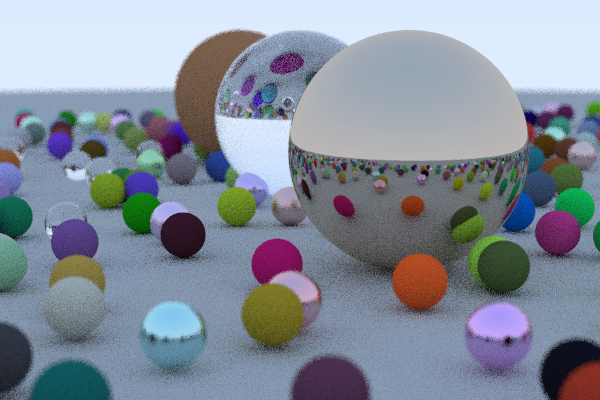
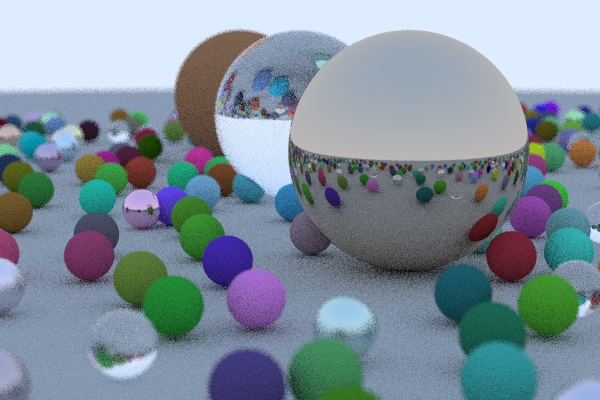
working SIMD implementation

diff --git a/src/main.rs b/src/main.rs
@@ -17,10 +17,6 @@ impl Ray {
         Ray { origin, direction }
     }
 
-    fn zero() -> Ray {
-        Ray { origin: Vec3::zero(), direction: Vec3::zero() }
-    }
-
     fn at(&self, t: f32) -> Vec3 {
         self.origin + self.direction * t
     }
@@ -48,174 +44,132 @@ trait Hitable {
     fn hit(&self, ray: Ray, t_min: f32, t_max: f32, out_hit: &mut HitRecord) -> bool;
 }
 
-struct Sphere {
-    center: Vec3,
-    radius: f32
-}
-
-impl Sphere {
-    fn new(center: Vec3, radius: f32) -> Sphere {
-        Sphere { center, radius }
-    }
-}
-
 use std::arch::x86_64::*;
 
-// fn set_ps(v: &Vec3) -> __m128 {
-//     _mm_set_ps(v.x, v.y, v.z, 0.0)
-// }
-
-// fn dot_simd(a: __m128, b: __m128) -> __m128 {
-//     let dot = _mm_mul_ps(a, b);
-//     dot = _mm_hadd_ps(dot, dot);
-//     _mm_hadd_ps(dot, dot)
-// }
-
-// Calculates the three dimensional dot product
-// for the for vectors stored in each channel.
-fn dot_4(
-	x_1: __m128, y_1: __m128, z_1: __m128,
-    x_2: __m128, y_2: __m128, z_2: __m128)
-    -> __m128
-{
-	unsafe {
-        let dot_x_2 = _mm_mul_ps(x_1, x_2);
-        let dot_y_2 = _mm_mul_ps(y_1, y_2);
-        let dot_z_2 = _mm_mul_ps(z_1, z_2);
-        let dot_sum = _mm_add_ps(dot_x_2, dot_y_2);
-        _mm_add_ps(dot_sum, dot_z_2)
-    }
+macro_rules! MY_MM_SHUFFLE {
+    ($fp3: expr, $fp2: expr, $fp1: expr, $fp0: expr) => {
+        (($fp3 << 6) | ($fp2 << 4) | ($fp1 << 2) | $fp0)
+    };
 }
 
-fn get_at_i(m: __m128, i: i32) -> f32
-{
+macro_rules! MY_SHUFFLE_4 {
+    ($v: expr, $x: expr, $y: expr, $z: expr, $w: expr) => {
+        _mm_shuffle_ps($v, $v, MY_MM_SHUFFLE!($w,$z,$y,$x))
+    };
+}
+
+fn select(a: __m128, b: __m128, cond: __m128) -> __m128 {
     unsafe {
-    	let shuff_mask = _mm_cvtsi32_si128(i);
-	    _mm_cvtss_f32(_mm_permutevar_ps(m, shuff_mask))
+        _mm_blendv_ps(a, b, cond)
     }
 }
 
-struct SimdRay {
-    origin_x : __m128,
-	origin_y : __m128,
-	origin_z : __m128,
-	direction_x : __m128,
-	direction_y : __m128,
-    direction_z : __m128,    
-}
-
-impl SimdRay {
-    fn new(ray: Ray) -> SimdRay {
-        unsafe {
-            SimdRay {
-                origin_x: _mm_set_ps1(ray.origin.x),
-                origin_y: _mm_set_ps1(ray.origin.y),
-                origin_z: _mm_set_ps1(ray.origin.z),
-                direction_x: _mm_set_ps1(ray.direction.x),
-                direction_y: _mm_set_ps1(ray.direction.y),
-                direction_z: _mm_set_ps1(ray.direction.z),        
-            }
-        }
-    }
-}
-
-fn hit_simd(world: &World, ray: Ray, t_min: f32, t_max: f32, out_hit: &mut HitRecord) -> (bool, usize) {
+fn selecti(a: __m128i, b: __m128i, cond: __m128) -> __m128i {
     unsafe {
-    let simd_ray = SimdRay::new(ray);
-    let zero = _mm_set_ps1(0.0); 
-	let a = _mm_set_ps1(dot(ray.direction, ray.direction));
+        _mm_blendv_epi8(a, b, _mm_castps_si128(cond))
+    }
+}
 
-    let mut found_hit = false;
-    let mut hit_sphere_idx = 0;
-    let mut t_closest = t_max;
+fn hmin(mut m: __m128) -> f32 {
+    unsafe {
+        m = _mm_min_ps(m, MY_SHUFFLE_4!(m, 2, 3, 0, 0));
+        m = _mm_min_ps(m, MY_SHUFFLE_4!(m, 1, 0, 0, 0));
+        _mm_cvtss_f32(m)
+    }
+}
 
-    let sphere_count = world.sphere_x.len() - (world.sphere_x.len() % 4) ;
+fn hit_simd(world: &World, r: Ray, t_min: f32, t_max: f32, out_hit: &mut HitRecord) -> (bool, usize) {
+unsafe {
+    let ro_x = _mm_set_ps1(r.origin.x);
+    let ro_y = _mm_set_ps1(r.origin.y);
+    let ro_z = _mm_set_ps1(r.origin.z);
+    let rd_x =  _mm_set_ps1(r.direction.x);
+    let rd_y =  _mm_set_ps1(r.direction.y);
+    let rd_z =  _mm_set_ps1(r.direction.z);
+
+    let t_min4 = _mm_set_ps1(t_min);
+    let zero_4 = _mm_set_ps1(0.0);
+
+    let mut id = _mm_set1_epi32(-1);
+    let mut closest_t = _mm_set_ps1(t_max);
+    let mut cur_id = _mm_set_epi32(3, 2, 1, 0);
+
+    let sphere_count = world.sphere_x.len() - (world.sphere_x.len() % 4);
     for i in (0..sphere_count).step_by(4) {
-    //  world.sphere_x.chunks(4).for_each(|step| {
-        let position_x = _mm_loadu_ps(&world.sphere_x[i]);
-        let position_y = _mm_loadu_ps(&world.sphere_y[i]);
-        let position_z = _mm_loadu_ps(&world.sphere_z[i]);
-        let radii = _mm_loadu_ps(&world.sphere_r[i]);
-    
-        let to_center_x = _mm_sub_ps(simd_ray.origin_x, position_x);
-        let to_center_y = _mm_sub_ps(simd_ray.origin_y, position_y);
-        let to_center_z = _mm_sub_ps(simd_ray.origin_z, position_z);
-    
-        // This contains the b for 4 spheres, x => b for spheres[i], x => b for spheres[i + 1] etc
-        let b = dot_4(
-            to_center_x, to_center_y, to_center_z, 
-            simd_ray.direction_x, simd_ray.direction_y, simd_ray.direction_z);
-    
-        let mut c = dot_4(to_center_x, to_center_y, to_center_z, to_center_x, to_center_y, to_center_z);
-        c = _mm_sub_ps(c, _mm_mul_ps(radii, radii));
+        let sc_x =  _mm_loadu_ps(&world.sphere_x[i]);
+        let sc_y =  _mm_loadu_ps(&world.sphere_y[i]);
+        let sc_z =  _mm_loadu_ps(&world.sphere_z[i]);
+        let _radius =  _mm_loadu_ps(&world.sphere_r[i]);
+        let sq_radius = _mm_mul_ps(_radius, _radius);
+
+        let co_x = _mm_sub_ps(sc_x, ro_x);
+        let co_y = _mm_sub_ps(sc_y, ro_y);
+        let co_z = _mm_sub_ps(sc_z, ro_z);
+
+        // Note: nb is minus b, avoids having to negate b (and the sign cancels out in c).
+        let a  = _mm_add_ps(_mm_add_ps(_mm_mul_ps(rd_x, rd_x), _mm_mul_ps(rd_y, rd_y)), _mm_mul_ps(rd_z, rd_z)); 
+        let nb = _mm_add_ps(_mm_add_ps(_mm_mul_ps(co_x, rd_x), _mm_mul_ps(co_y, rd_y)), _mm_mul_ps(co_z, rd_z));
+        let c  = _mm_sub_ps(_mm_add_ps(_mm_add_ps(_mm_mul_ps(co_x, co_x), _mm_mul_ps(co_y, co_y)), _mm_mul_ps(co_z, co_z)), sq_radius);
+
+        let discr = _mm_sub_ps(_mm_mul_ps(nb, nb), _mm_mul_ps(a, c));
+        let discr_gt_0 = _mm_cmpgt_ps(discr, zero_4);
+
+        // See if any of the four spheres have a solution.
+        if  _mm_movemask_ps(discr_gt_0) != 0 {
+            let discr_root = _mm_sqrt_ps(discr);
+            let t0 = _mm_div_ps(_mm_sub_ps(nb, discr_root), a);
+            let t1 = _mm_div_ps(_mm_add_ps(nb, discr_root), a);
+
+            let best_t = select(t1, t0, _mm_cmpgt_ps(t0, t_min4)); // If t0 is above min, take it (since it's the earlier hit), else try t1.
+            let mask = _mm_and_ps(_mm_and_ps(discr_gt_0, _mm_cmpgt_ps(best_t, t_min4)), _mm_cmplt_ps(best_t, closest_t));
+            
+            // if hit, take it
+            id = selecti(id, cur_id, mask);
+            closest_t = select(closest_t, best_t, mask);
+        }
         
-        let discriminants = _mm_sub_ps(_mm_mul_ps(b, b), _mm_mul_ps(a, c));
-        let mask = _mm_cmpge_ps(discriminants, zero);
-        let sqrts = _mm_and_ps(mask, _mm_sqrt_ps(discriminants));
+        cur_id = _mm_add_epi32(cur_id, _mm_set1_epi32(4));
+    }
     
-        let b_neg = _mm_sub_ps(zero, b);
-        let t_neg = _mm_div_ps(_mm_sub_ps(b_neg, sqrts), a);
-        let t_pos = _mm_div_ps(_mm_add_ps(b_neg, sqrts), a);
-    
-        let mut discriminant_results: [f32;4] = [0.0, 0.0, 0.0, 0.0];
-        _mm_storeu_ps(&mut discriminant_results[0], discriminants);
-    
-        let mut t_results_pos: [f32;4] = [0.0, 0.0, 0.0, 0.0];
-        let mut t_results_neg: [f32;4] = [0.0, 0.0, 0.0, 0.0];
-        _mm_storeu_ps(&mut t_results_pos[0], t_pos);
-        _mm_storeu_ps(&mut t_results_neg[0], t_neg);
-    
-        for test_idx in 0..4_ {
-            if discriminant_results[test_idx] <= 0.0 {
-                continue;
-            }
-    
-            let t_test_neg = t_results_neg[test_idx];
-            let t_test_pos = t_results_pos[test_idx];
-    
-            if t_test_neg > t_min && t_test_neg < t_closest {
-                let sphere_pos = vec3![
-                    world.sphere_x[(test_idx) + i],
-                    world.sphere_y[(test_idx) + i],
-                    world.sphere_z[(test_idx) + i]
-                ]; 
+    // We found the four best hits, lets see if any are actually close.
+    let min_t = hmin(closest_t);
+    if min_t < t_max { 
+        let min_t_channel = _mm_cmpeq_ps(closest_t, _mm_set_ps1(min_t));
+        let min_t_mask = _mm_movemask_ps(min_t_channel);
+        if min_t_mask != 0 {
+            let mut id_scalar : [i32;4] = [0, 0, 0, 0];
+            let mut closest_t_scalar : [f32;4] = [0.0, 0.0, 0.0, 0.0];
 
-                let radius =  world.sphere_r[(test_idx) + i];
-    
-                out_hit.t = t_test_neg;
-                out_hit.point = ray.at(t_test_neg);
-                out_hit.normal = (out_hit.point - sphere_pos) / radius;
-                out_hit.set_face_and_normal(ray, out_hit.normal);
-                hit_sphere_idx = i + test_idx;
-                t_closest = t_test_neg;
-                found_hit = true;
-            }
-            else if t_test_pos > t_min && t_test_pos < t_closest {
-                let sphere_pos = vec3![
-                    world.sphere_x[(test_idx) + i],
-                    world.sphere_y[(test_idx) + i],
-                    world.sphere_z[(test_idx) + i]
-                ]; 
+            _mm_storeu_si128(id_scalar.as_mut_ptr() as *mut __m128i, id);
+            _mm_storeu_ps(closest_t_scalar.as_mut_ptr(), closest_t);
 
-                let radius =  world.sphere_r[(test_idx) + i];
-    
-                out_hit.t = t_test_pos;
-                out_hit.point = ray.at(t_test_pos);
-                out_hit.normal = (out_hit.point - sphere_pos) / radius;
-                out_hit.set_face_and_normal(ray, out_hit.normal);
-                hit_sphere_idx = i + test_idx;
-                t_closest = t_test_pos;
-                found_hit = true;
-            }
+            // Map the lowest set bit of the value indexed with. 
+            let mask_to_channel : [i32;16] =
+            [
+                0, 0, 1, 0, // 00xx
+                2, 0, 1, 0, // 01xx
+                3, 0, 1, 0, // 10xx
+                2, 0, 1, 0, // 11xx
+            ];
+
+            let lane = mask_to_channel[min_t_mask as usize];
+            let hit_id = id_scalar[lane as usize] as usize;
+            let final_t = closest_t_scalar[lane as usize];
+
+            out_hit.point = r.at(final_t);
+            out_hit.normal = (out_hit.point - world.sphere_center(hit_id)) / world.sphere_r[hit_id];
+            out_hit.set_face_and_normal(r, out_hit.normal);
+            out_hit.t = final_t;
+
+            return (true, hit_id as usize);
         }
     }
-   
-    (found_hit, hit_sphere_idx)
-    }
+}
+    (false, 0)
 }
 
 fn hit(world: &World, idx: usize, ray: Ray, t_min: f32, t_max: f32, out_hit: &mut HitRecord) -> bool {
-    let center = vec3![world.sphere_x[idx], world.sphere_y[idx], world.sphere_z[idx]];
+    let center = world.sphere_center(idx);
     let radius = world.sphere_r[idx];
 
     let oc = ray.origin - center;
@@ -248,21 +202,6 @@ fn hit(world: &World, idx: usize, ray: Ray, t_min: f32, t_max: f32, out_hit: &mu
     false            
 }
 
-// fn hit_spheres(world: &World, ray: Ray, t_min: f32, t_max: f32, out_hit: &mut HitRecord, hit_id: &mut usize) -> bool {
-//     let mut found_hit = false;
-//     let mut closest_t = t_max;
-
-//     for i in 0..world.sphere_x.len() {
-//         if hit(world, i, ray, t_min, closest_t, out_hit) {
-//             found_hit = true;
-//             closest_t = out_hit.t;
-//             *hit_id = i;
-//         }
-//     }
-
-//     found_hit
-// }
-
 fn hit_spheres(world: &World, ray: Ray, t_min: f32, t_max: f32, out_hit: &mut HitRecord, hit_id: &mut usize) -> bool {
     let mut found_hit = false;
     let mut closest_t = t_max;
@@ -274,8 +213,7 @@ fn hit_spheres(world: &World, ray: Ray, t_min: f32, t_max: f32, out_hit: &mut Hi
         *hit_id = id;
     }
 
-    let spheres_remaining = world.sphere_x.len() % 4;
-
+    let spheres_remaining = world.sphere_x.len() - (world.sphere_x.len() % 4);
     for i in spheres_remaining..world.sphere_x.len() {
         if hit(world, i, ray, t_min, closest_t, out_hit) {
             found_hit = true;
@@ -294,7 +232,6 @@ struct Camera {
     y_extent: Vec3,
     u: Vec3,
     v: Vec3,
-    w: Vec3,
     lens_radius: f32
 }
 
@@ -317,7 +254,7 @@ impl Camera {
             lower_left: origin - horizontal / 2.0 - vertical / 2.0 - focus_dist * w,
             x_extent: horizontal,
             y_extent: vertical,
-            u: u, v: v, w: w,
+            u: u, v: v,
             lens_radius: aperture / 2.0
         }
     }
@@ -494,6 +431,10 @@ impl World {
         self.sphere_z.push(center.z);
         self.sphere_r.push(radius);
     }
+
+    fn sphere_center(&self, idx: usize) -> Vec3 {
+        vec3![self.sphere_x[idx], self.sphere_y[idx], self.sphere_z[idx]]
+    }
 }
 
 fn generate_world() -> World {
@@ -518,7 +459,7 @@ fn generate_world() -> World {
                     let albedo = Vec3::random_range(0.5, 1.0);
                     let rough = rand_in_range(0.0, 0.5);
                     world.push_sphere(center, 0.2);
-                    world.materials.push(Material::Metal(Metal {albedo: albedo, roughness: rough}));
+                    world.materials.push(Material::Metal(Metal::new(albedo, rough)));
                 } else {
                     world.push_sphere(center, 0.2);
                     world.materials.push(Material::Dielectric(Dielectric{ idx_of_refraction: 1.5 }));
